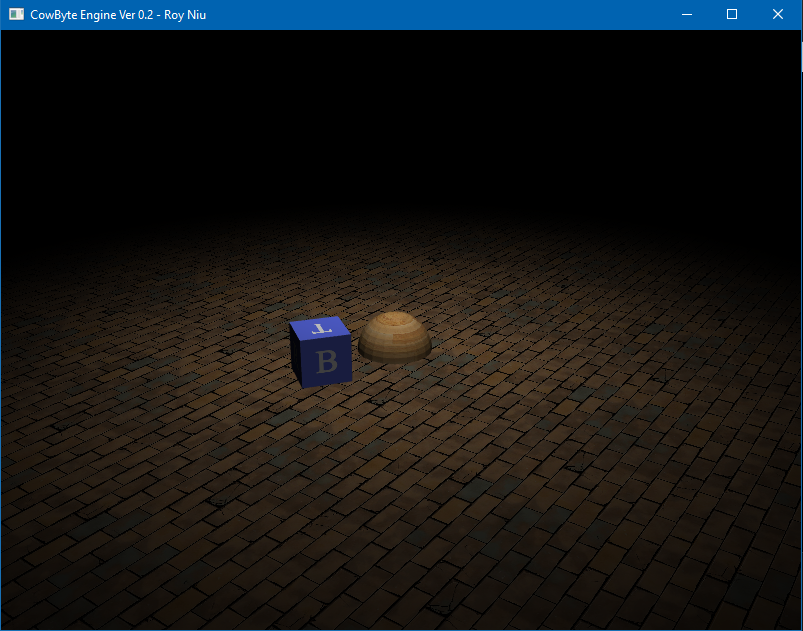
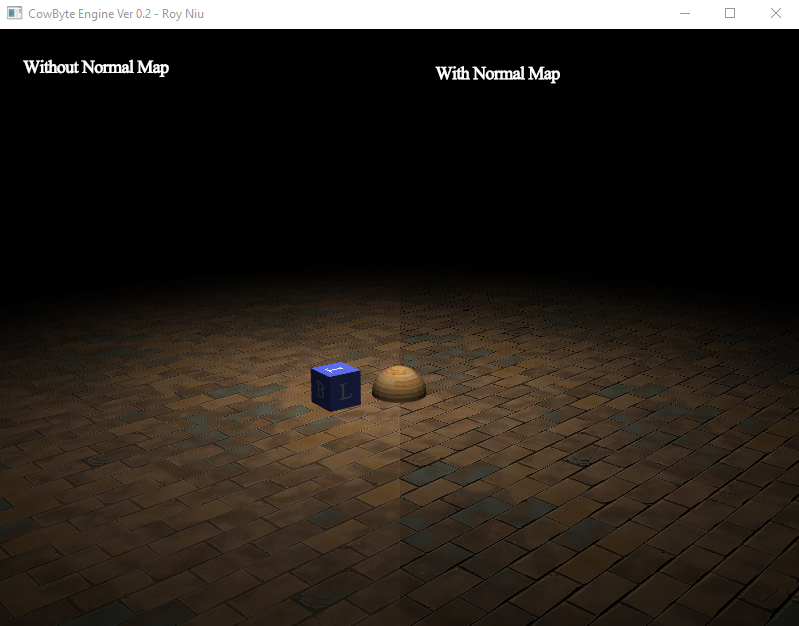
Update demo code and screenshot.

diff --git a/src/CowByteEngine 0.2/Core/Game.cpp b/src/CowByteEngine 0.2/Core/Game.cpp
@@ -69,7 +69,7 @@ bool Game::Initialize()
     SceneNode* pPtLightSN = SceneNode::CreateSceneNodeThenAttach(&SceneNode::RootNode);
     pPtLightSN->Translate(Vec3(0.0f, 10.0f, 0.0f));
     m_pPtLight->AttachTo_SceneNode_Parent(pPtLightSN);
-    m_pPtLight->InitializePoint(CBColor(1.0f, 1.0f, 1.0f, 1.0f), 20.0f);
+    m_pPtLight->InitializePoint(CBColor(1.0f, 1.0f, 1.0f, 1.0f), 30.0f);
     m_pPtLight->RegisterLight();
 
 
@@ -77,8 +77,9 @@ bool Game::Initialize()
     m_pGameCamera = new Camera((float)800 / 600, 40.0f, 0.01f, 1000.0f);
     SceneNode *cameraSceneNode = SceneNode::CreateSceneNodeThenAttach(&SceneNode::RootNode);
     m_pGameCamera->AttachTo_SceneNode_Parent(cameraSceneNode);
-    cameraSceneNode->RotateLocal(Vec3::Up(), 45.0f);
-    cameraSceneNode->Translate(Vec3(-20, 6.0f, -20.0f));
+    cameraSceneNode->RotateLocal(m_pGameCamera->GetParentSceneNode()->GetWorldTransform().Up(), 45.0f);
+    cameraSceneNode->RotateLocal(m_pGameCamera->GetParentSceneNode()->GetWorldTransform().Right(), 15.0f);
+    cameraSceneNode->Translate(Vec3(-20, 10.0f, -20.0f));
 
     // Set the game camera as main.
     CBRefCountPtr<Message> msgPtr = Msg_SetMainCamera::Create();
